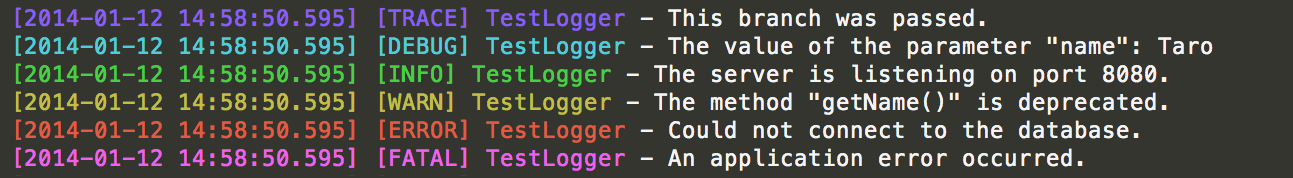
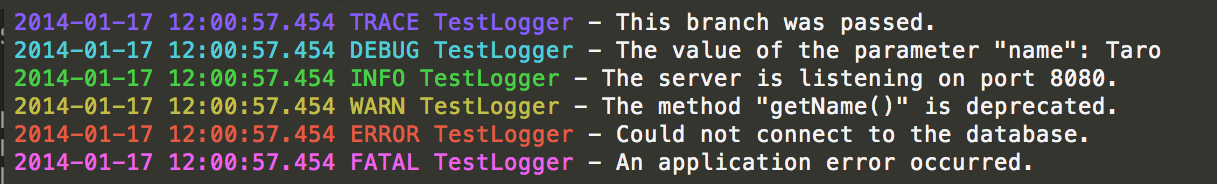
Updated the logger logic.

diff --git a/logger.go b/logger.go
@@ -4,7 +4,6 @@ import (
 	"bufio"
 	"fmt"
 	"os"
-	"strings"
 	"time"
 )
 
@@ -33,37 +32,38 @@ const (
 
 	timeFormatLayout string = "2006-01-02 15:04:05.000"
 
-	logFormat string = "%s[%s] [%s] %s %s- %s\n"
+	logFormat string = "%s%s %s %s %s- "
 )
 
 type Logger struct {
-	Name  string
-	Level string
-	File  string
+	Name              string
+	Level             string
+	File              string
+	OutputFileColored bool
 }
 
-func (logger *Logger) Trace(messages ...string) {
-	logger.output(LevelTrace, messages)
+func (logger *Logger) Trace(messages ...interface{}) {
+	logger.output(LevelTrace, messages...)
 }
 
-func (logger *Logger) Debug(messages ...string) {
-	logger.output(LevelDebug, messages)
+func (logger *Logger) Debug(messages ...interface{}) {
+	logger.output(LevelDebug, messages...)
 }
 
-func (logger *Logger) Info(messages ...string) {
-	logger.output(LevelInfo, messages)
+func (logger *Logger) Info(messages ...interface{}) {
+	logger.output(LevelInfo, messages...)
 }
 
-func (logger *Logger) Warn(messages ...string) {
-	logger.output(LevelWarn, messages)
+func (logger *Logger) Warn(messages ...interface{}) {
+	logger.output(LevelWarn, messages...)
 }
 
-func (logger *Logger) Error(messages ...string) {
-	logger.output(LevelError, messages)
+func (logger *Logger) Error(messages ...interface{}) {
+	logger.output(LevelError, messages...)
 }
 
-func (logger *Logger) Fatal(messages ...string) {
-	logger.output(LevelFatal, messages)
+func (logger *Logger) Fatal(messages ...interface{}) {
+	logger.output(LevelFatal, messages...)
 }
 
 func (logger *Logger) isOutput(degree int) bool {
@@ -71,7 +71,7 @@ func (logger *Logger) isOutput(degree int) bool {
 	return loggerDegree <= degree
 }
 
-func (logger *Logger) output(level string, messages []string) {
+func (logger *Logger) output(level string, messages ...interface{}) {
 	degree, color := levelProperties(level)
 	if logger.isOutput(degree) {
 		if logger.File != "" {
@@ -81,10 +81,24 @@ func (logger *Logger) output(level string, messages []string) {
 				return
 			}
 			writer := bufio.NewWriter(file)
-			fmt.Fprintf(writer, logFormat, color, time.Now().Format(timeFormatLayout), level, logger.Name, colorNormal, strings.Join(messages, " "))
+			fmt.Fprintf(writer, logFormat, "", time.Now().Format(timeFormatLayout), level, logger.Name, "")
+			fmt.Fprintln(writer, messages...)
 			writer.Flush()
+			if logger.OutputFileColored {
+				fileColoredPath := logger.File + ".colored"
+				file, err = os.OpenFile(fileColoredPath, os.O_WRONLY|os.O_CREATE|os.O_APPEND, 0644)
+				if err != nil {
+					fmt.Printf("Can't open the file: %s\n", fileColoredPath)
+					return
+				}
+				writer := bufio.NewWriter(file)
+				fmt.Fprintf(writer, logFormat, color, time.Now().Format(timeFormatLayout), level, logger.Name, colorNormal)
+				fmt.Fprintln(writer, messages...)
+				writer.Flush()
+			}
 		} else {
-			fmt.Printf(logFormat, color, time.Now().Format(timeFormatLayout), level, logger.Name, colorNormal, strings.Join(messages, " "))
+			fmt.Printf(logFormat, color, time.Now().Format(timeFormatLayout), level, logger.Name, colorNormal)
+			fmt.Println(messages...)
 		}
 	}
 }

diff --git a/logger_test.go b/logger_test.go
@@ -81,10 +81,10 @@ func TestError(t *testing.T) {
 
 func TestFatal(t *testing.T) {
 	logger := Logger{Name: "TestFatal01", Level: LevelFatal}
-	logger.Fatal("This message should be shown.")
+	logger.Fatal("This message should be shown.", "This is an optional message.")
 
 	logger = Logger{Name: "TestFatal02", Level: LevelFatal, File: file}
-	logger.Fatal("This message should be shown.")
+	logger.Fatal("This message should be shown.", "This is an optional message.")
 }
 
 func TestIsOutput(t *testing.T) {
@@ -105,16 +105,24 @@ func TestIsOutput(t *testing.T) {
 
 func TestOutput(t *testing.T) {
 	logger := Logger{Name: "TestOutput01", Level: LevelInfo}
-	logger.output(LevelDebug, []string{"This message should not be shown."})
+	logger.output(LevelDebug, "This message should not be shown.")
 
 	logger = Logger{Name: "TestOutput02", Level: LevelInfo}
-	logger.output(LevelInfo, []string{"This message should be shown on the stdout."})
+	logger.output(LevelInfo, "This message should be shown on the stdout.")
 
 	logger = Logger{Name: "TestOutput03", Level: LevelInfo, File: "/a/b/c/d/e/f/g/h"}
-	logger.output(LevelInfo, []string{"An error should occur and this message should not be shown."})
+	logger.output(LevelInfo, "An error should occur and this message should not be shown.")
 
 	logger = Logger{Name: "TestTrace04", Level: LevelInfo, File: file}
 	logger.Info("This message should be shown on the file:", file)
+
+	logger = Logger{Name: "TestLogger", Level: LevelTrace, File: file, OutputFileColored: true}
+	logger.Trace("This branch was passed.")
+	logger.Debug("The value of the parameter \"name\":", "Taro")
+	logger.Info("The server is listening on port 8080.")
+	logger.Warn("The method \"getName()\" is deprecated.")
+	logger.Error("Could not connect to the database.")
+	logger.Fatal("An application error occurred.")
 }
 
 func TestLevelProperties(t *testing.T) {
